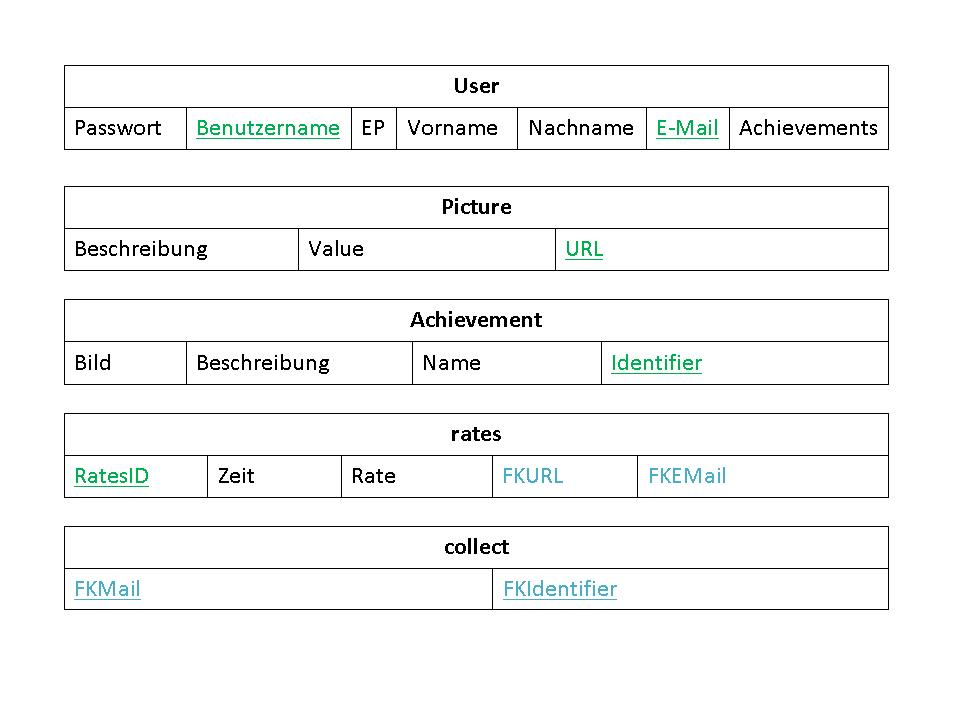
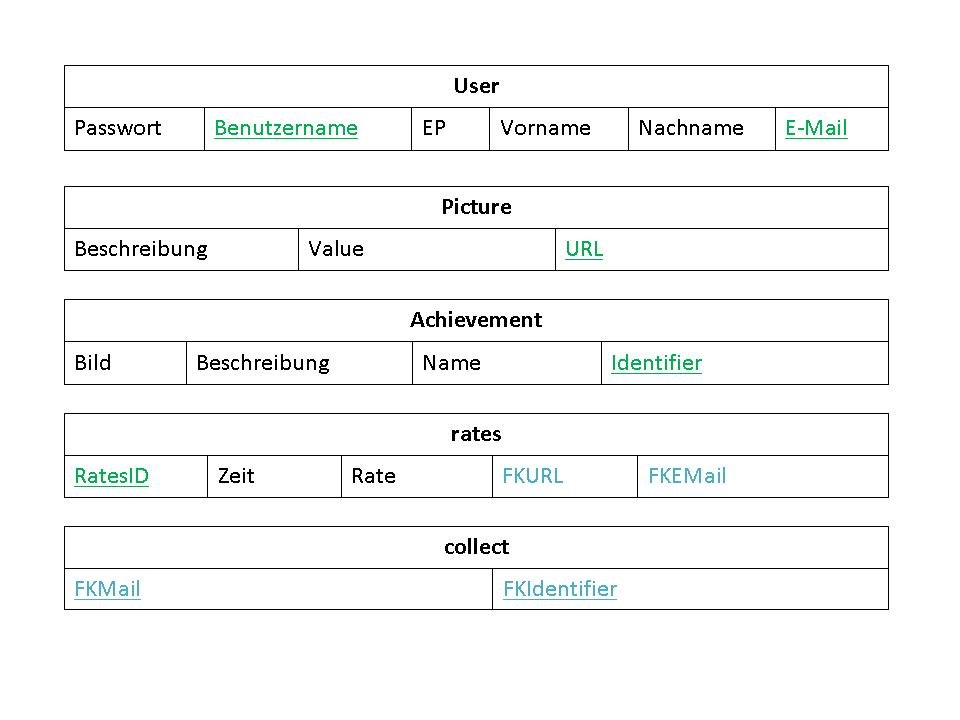
SQL dateien geändert (achievment aus tabelle user entfernt)

Changed region(s): [[0.1875, 0.1528, 0.9062, 0.2139]]

diff --git a/Übung 3/ugnm-service-skeleton/src/main/java/de/rwth/dbis/ugnm/entity/User.java b/Übung 3/ugnm-service-skeleton/src/main/java/de/rwth/dbis/ugnm/entity/User.java
@@ -35,6 +35,7 @@ public class User {
 	@Column(name = "Nachname", nullable = false)
 	private String nachname;
 	
+	@Id
 	@Column(name = "EMail", nullable = false)
 	private String email;
 		
